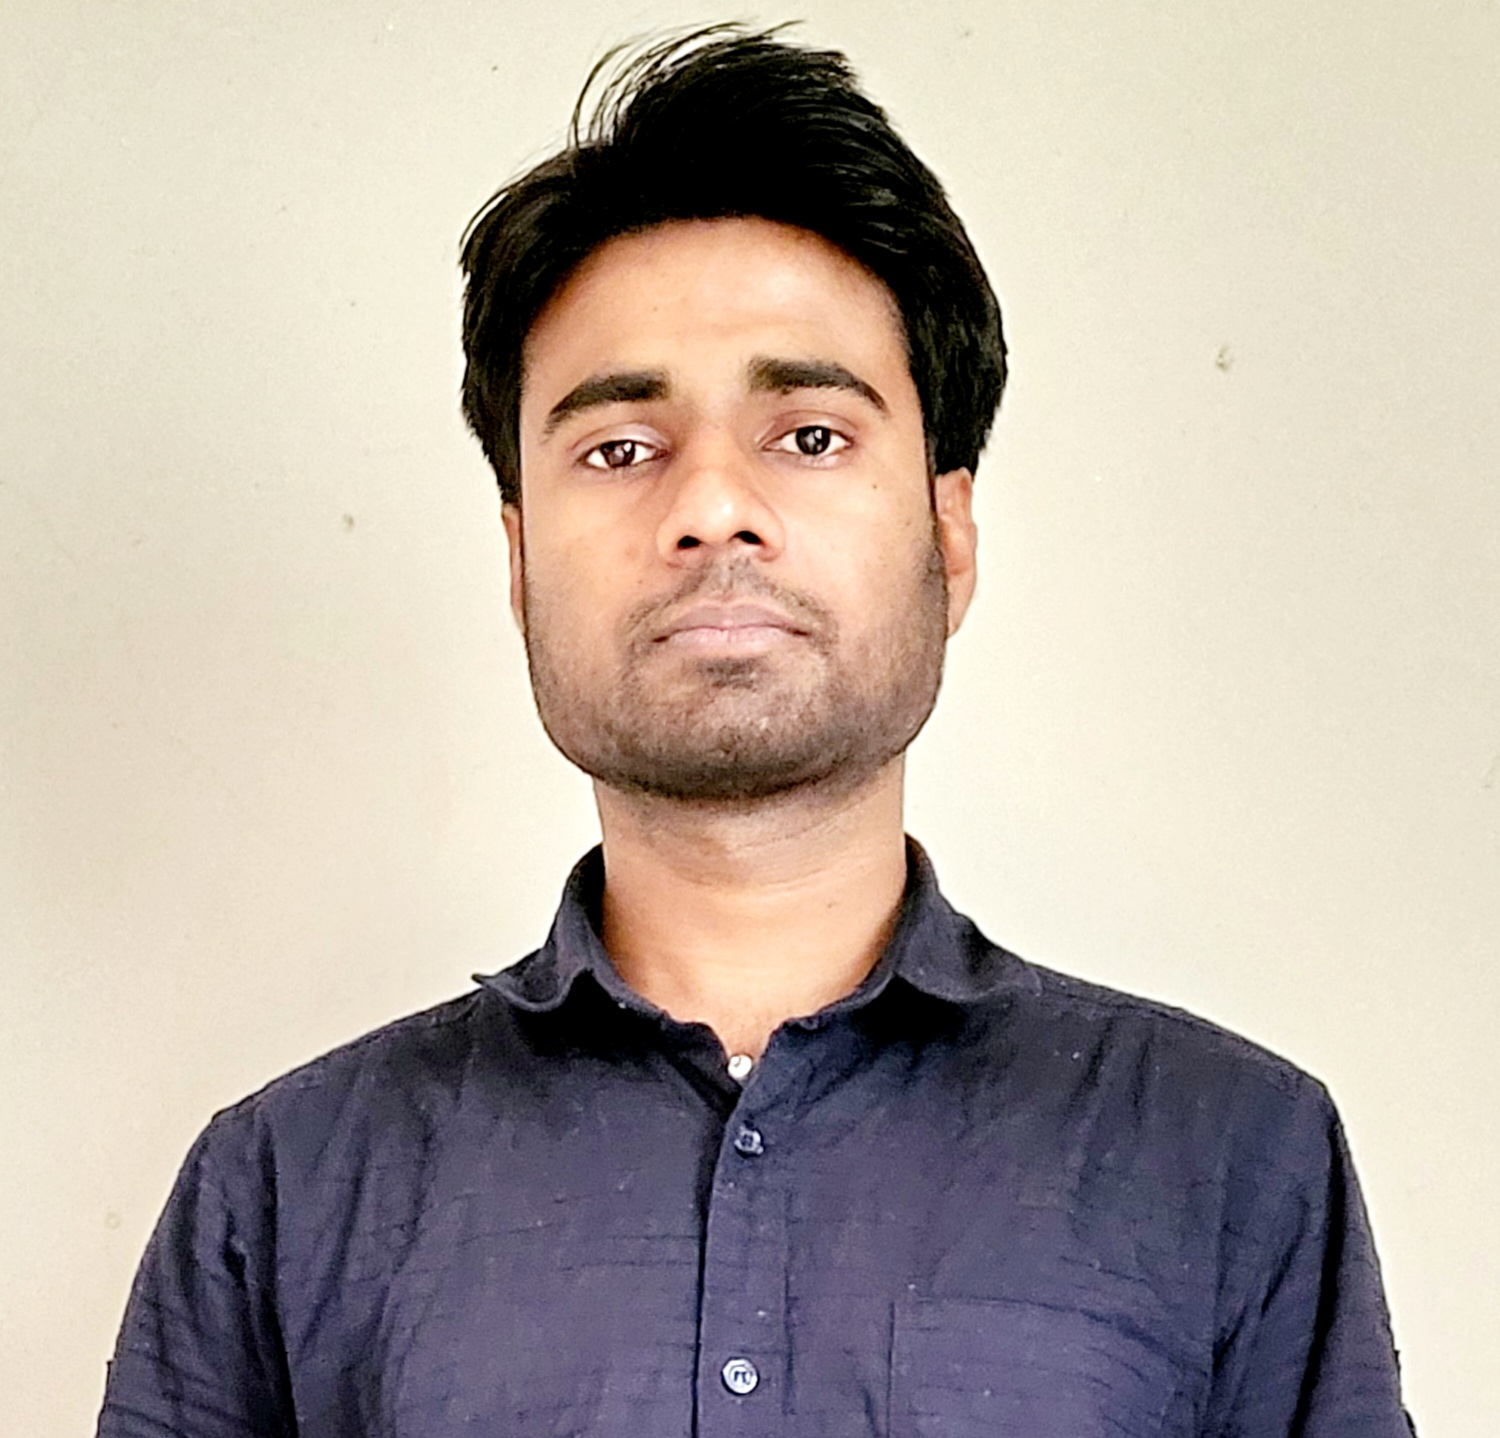
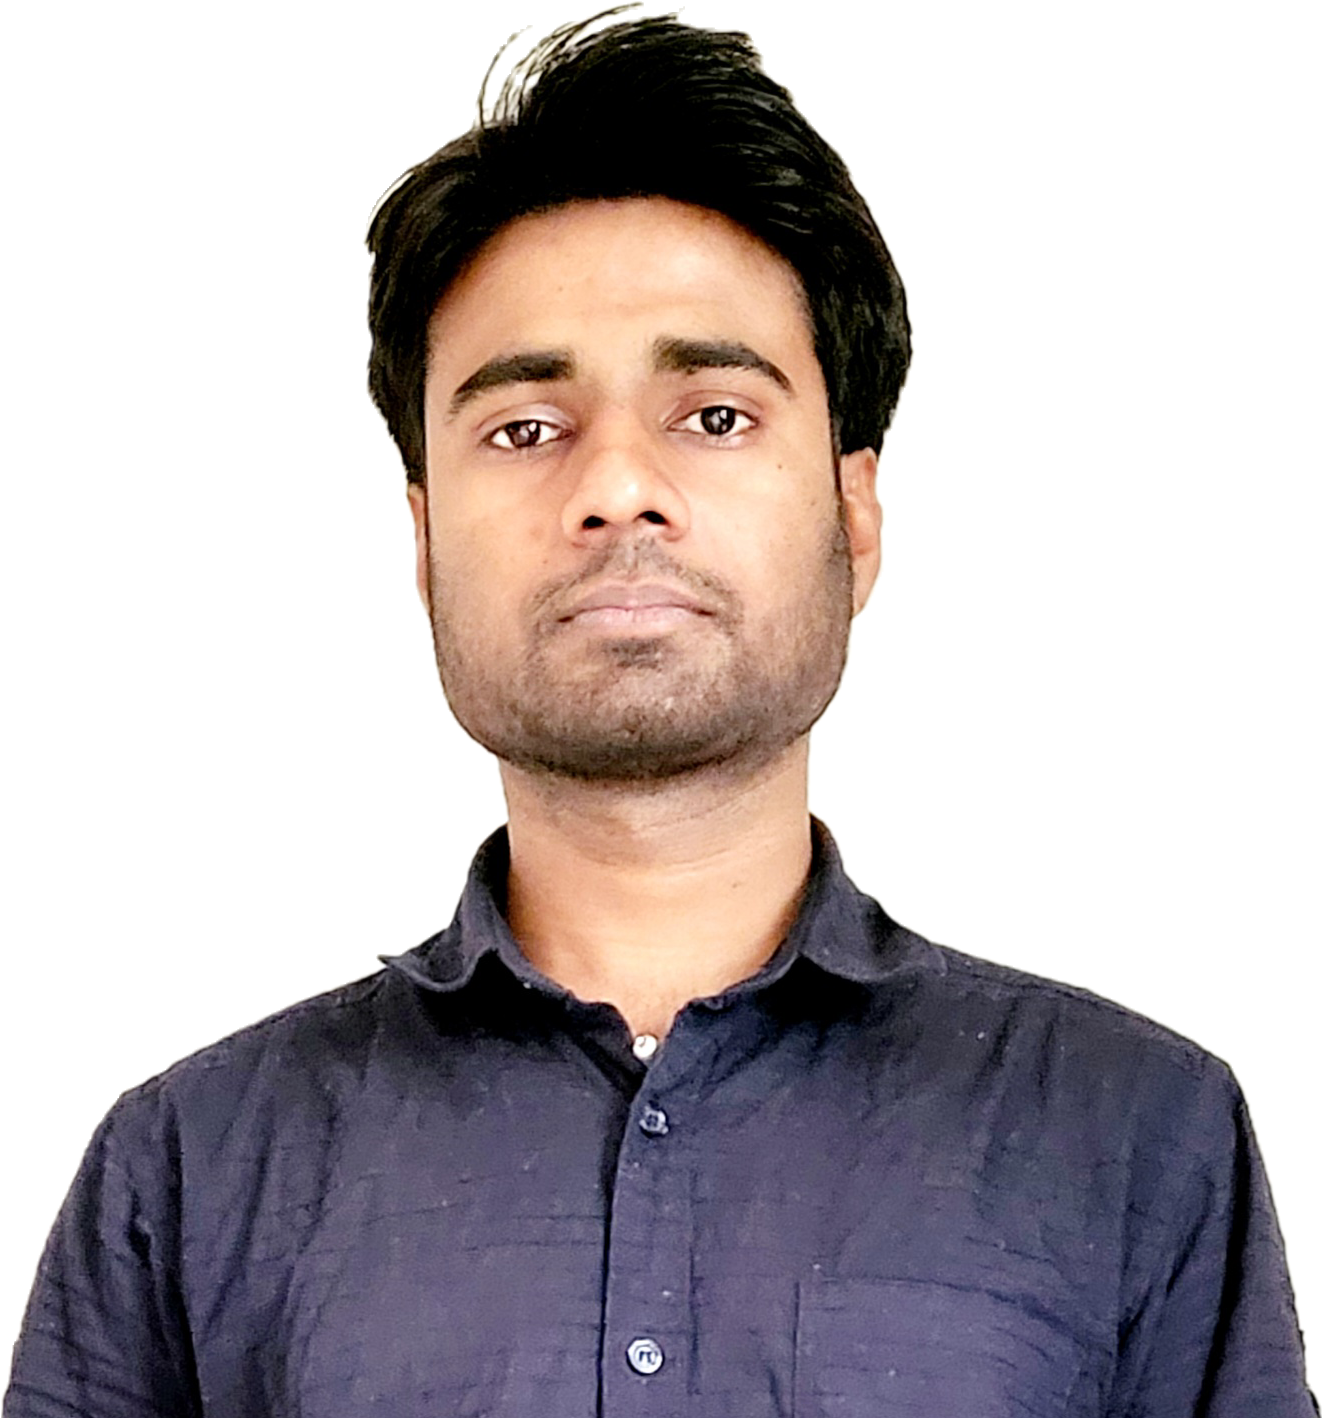
Updated Content 6 april

diff --git a/my-portfolio/src/config/constants.jsx b/my-portfolio/src/config/constants.jsx
@@ -10,6 +10,7 @@ import Project3 from "../assets/AiVIdeo.jpg";
 import Project4 from "../assets/SocialMedia.jpg";
 import Github from "../assets/github.jpg";
 import Medium from "../assets/medium.png";
+import LinkedIn from "../assets/linkedin.png";  // Added LinkedIn image import
 
 
 const ABOUT = [
@@ -64,24 +65,28 @@ const PROJECTS = [
         title: "Twitter Sentiments Analysis",
         description: "Uncovering public sentiment through AI-driven text analysis. This project analyzes tweets to determine sentiment—positive, negative, or neutral—using Natural Language Processing (NLP) and Machine Learning. It involves data preprocessing, text vectorization, and classification using Deep Learning models. The system is trained on a labeled dataset and deployed via Flask and AWS, making it scalable for real-time analysis. This solution helps brands and businesses gain insights into customer opinions and trends.",
         image: <img src={Project1} alt="Twitter Sentiments Analysis" className="project_img" />
+        
     },
     {
         id: 2,
         title: "Text Classification",
         description: "This project classifies text into predefined categories using Natural Language Processing (NLP) and Deep Learning techniques. It involves data preprocessing, tokenization, and feature extraction using libraries like TensorFlow and SciKit-Learn. A neural network-based model is trained to accurately categorize text, making it applicable for spam detection, sentiment analysis, and document classification. The model is deployed using Flask and AWS, ensuring real-time and scalable predictions.",
         image: <img src={Project2} alt="Text Classification" className="project_img" />
+        
     },
     {
         id: 3,
         title: "AI Video Creator",
         description: "This project leverages Generative AI and Deep Learning to create videos from text-based inputs. It integrates Natural Language Processing (NLP) and Computer Vision to generate relevant visuals, animations, and voiceovers. Using LLMs, AI-powered video synthesis, and AWS cloud services, the system converts scripts into engaging video content. This solution is ideal for content creators, businesses, and automated storytelling, enabling scalable and high-quality video production with minimal manual effort.",
         image: <img src={Project3} alt="AI Video Creator" className="project_img" />
+        
     },
     {
         id: 4,
         title: "Automate Social Media Content Uploader",
         description: "Seamlessly scheduling and uploading content with AI-powered automation. This project automates the process of uploading videos, images, and captions to social media platforms like Instagram, Twitter, and LinkedIn. Using Python, Selenium, and API integrations, it streamlines content scheduling, hashtag management, and post customization. The system is configurable via a JSON-based setup, allowing users to enable or disable features like thumbnail usage, captions, and logging. Designed for content creators and businesses, this tool enhances efficiency by eliminating manual uploads and ensuring consistent online engagement.",
         image: <img src={Project4} alt="Automate Social Media Content Uploader" className="project_img" />
+        
     },
 ];
 
@@ -89,15 +94,35 @@ const OTHER_PLATFORMS = [
     {
         id: 1,
         title: "GitHub",
-        description:"Explore my projects, experiments, and open-source contributions.",
-        image: <img src={Github} alt="GitHub" className="project_img" />
-
+        description: "Explore my projects, experiments, and open-source contributions.",
+        link: "https://github.com/imrk-1111",
+        image: (
+            <a href="https://github.com/imrk-1111" target="_blank" rel="noopener noreferrer">
+                <img src={Github} alt="GitHub" className="project_img" />
+            </a>
+        )
     },
     {
         id: 2,
         title: "Medium",
-        description:"Deep dive into my insights on Data Science, AI, and beyond.",
-        image: <img src={Medium} alt="Medium" className="project_img" />
+        description: "Deep dive into my insights on Data Science, AI, and beyond.",
+        link: "https://medium.com/@ravikumar_83882",
+        image: (
+            <a href="https://medium.com/@ravikumar_83882" target="_blank" rel="noopener noreferrer">
+                <img src={Medium} alt="Medium" className="project_img" />
+            </a>
+        )
+    },
+    {
+        id: 3,
+        title: "LinkedIn",
+        description: "Connect with me for professional networking and career updates.",
+        link: "https://www.linkedin.com/in/ravi-kumar-1287461a0/",
+        image: (
+            <a href="https://www.linkedin.com/in/ravi-kumar-1287461a0/" target="_blank" rel="noopener noreferrer">
+                <img src={LinkedIn} alt="LinkedIn" className="project_img" />
+            </a>
+        )
     }
 ];
 

diff --git a/my-portfolio/src/index.css b/my-portfolio/src/index.css
@@ -141,10 +141,10 @@ section {
 
 #profile {
   display: flex;
-      justify-content: center;
-      align-items: center;
-      gap: 5rem;
-      height: 85vh !important;
+  justify-content: center;
+  align-items: center;
+  gap: 5rem;
+  height: 85vh !important;
 }
 
 .profile-pic-container {
@@ -160,14 +160,14 @@ section {
   width: 100%;
   border-radius: 50%;
   overflow: hidden !important;
-  background-color: #F4F4F4 !important;
+  background-color: white !important;
 }
 
 .profile-pic-img {
-  padding-top: 70px;
   height: 100%;
   width: 100%;
   object-fit: cover;
+  object-position: top center; /* Ensures the image stays aligned to the top */
 }
 
 .profile-info {
@@ -265,16 +265,16 @@ article .icon {
   display: flex;
       flex-wrap: wrap;
       justify-content:space-around;
-      gap: 3.5rem;
+      gap: 5rem;
       margin-top: 4rem !important;
 }
 
 .subdetail_container {
   background-color: white !important;
   border: 1px solid #ddd !important;
-  border-radius: 5px !important;
+  border-radius: 1px !important;
   padding: 1.5rem;
-  max-width: 350px;
+  max-width: 490px;
   text-align: left;
   box-shadow: 0px 0px 10px rgba(0, 0, 0, 0.1);
   transition: transform 0.2s ease-in-out !important;
@@ -303,7 +303,7 @@ article .icon {
 }
 
 .btn_container {
-  margin-top: 1.5rem;
+  margin-top: .5rem;
   text-align: center;
 }
 
@@ -313,7 +313,7 @@ article .icon {
   color: white;
   padding: 1rem 1rem;
   font-weight: 600;
-  border-radius: 2rem;
+  border-radius: 4rem;
   cursor: pointer;
   transition: background-color 0.3s ease, transform 0.2s ease;
 }
@@ -332,18 +332,32 @@ article .icon {
   padding: 4rem 0;
   text-align: center;
 }
+
 #other-platforms .details_container {
-      justify-content: center;
+  display: flex; /* Use flex to align items horizontally */
+  justify-content: center; /* Center the items horizontally */
+  align-items: center; /* Center the items vertically */
+  gap: 4rem; /* Add some space between icons */
+  flex-wrap: wrap; /* Wrap items if they overflow */
 }
 
 #other-platforms .subdetail_container {
-  max-width: 340px !important;
+  display: flex; /* Make each card flexible */
+  flex-direction: column; /* Align content vertically inside the card */
+  max-width: 310px; /* Reduce size for smaller icons */
+  padding: 1rem;
+}
+
+#other-platforms .platform-image {
+  width: 40px; /* Adjust image size */
+  height: 50px;
+  object-fit: contain; /* Ensure the image keeps its aspect ratio */
+  margin-bottom: 0.5rem; /* Space below the image */
 }
 
 .text-center {
   text-align: center !important;
 }
-
 /* contacts */
 #contacts {
   padding: 4rem 0;

diff --git a/my-portfolio/src/components/OtherPlatform.jsx b/my-portfolio/src/components/OtherPlatform.jsx
@@ -1,29 +1,29 @@
-// import { useState, useEffect} from 'react';
 import Box from "@mui/material/Box";
 import Typography from "@mui/material/Typography";
-import {OTHER_PLATFORMS} from "../config/constants.jsx"
-import Card from '@mui/material/Card';
+import { OTHER_PLATFORMS } from "../config/constants.jsx";
+import Card from "@mui/material/Card";
 
 const Projects = () => {
   return (
-    <Box as="section" id="other-platforms">
+    <Box component="section" id="other-platforms">
       <Typography variant="caption" className="section_text_p1">Explore My</Typography>
       <Typography variant="h3" className="section_heading">Other Platforms</Typography>
       <Box className="details_container">
-      { OTHER_PLATFORMS?.length > 0 && OTHER_PLATFORMS.map((item) => (
+        {OTHER_PLATFORMS?.length > 0 && OTHER_PLATFORMS.map((item) => (
           <Card variant="outlined" className="subdetail_container" key={item?.id}>
-             <a href="#" className="platform-link"> 
-            {item?.image}
-            <Typography as="h3" className="text-center">{item?.title}</Typography>
-            <Typography as="p" className="text-center">{item?.description}</Typography>
-             </a>
-
+            <a href={item?.link} className="platform-link" target="_blank" rel="noopener noreferrer">
+              {/* Ensure item?.image is an <img> or JSX element */}
+              {typeof item?.image === "string" ? (
+                <img src={item?.image} alt={item?.title} className="platform-image" />
+              ) : (
+                item?.image
+              )}
+              <Typography component="h3" className="text-center">{item?.title}</Typography>
+              <Typography component="p" className="text-center">{item?.description}</Typography>
+            </a>
           </Card>
-      ))}
+        ))}
       </Box>
-
-
-      
     </Box>
   );
 };
